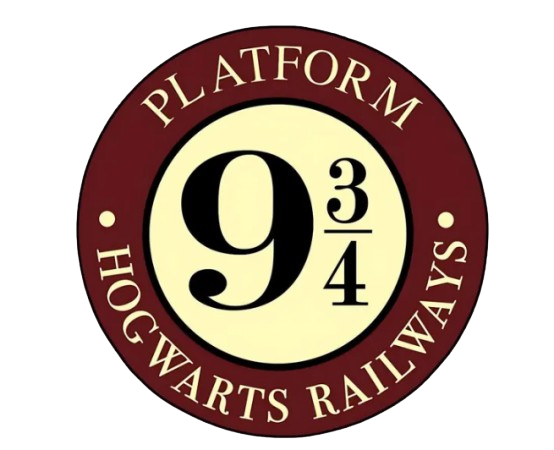
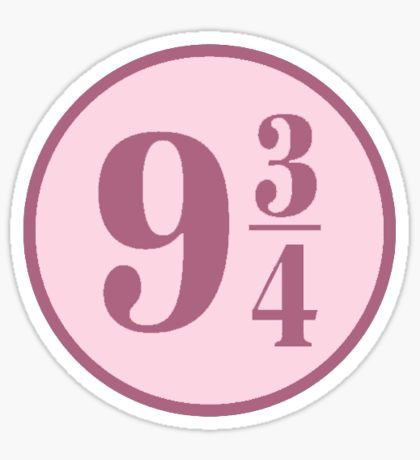
Implementando funcionalidades

diff --git a/src/app/personagem/[id]/page.jsx b/src/app/personagem/[id]/page.jsx
@@ -1,0 +1,196 @@
+"use client"
+import { useState, useEffect } from "react";
+import { useRouter, useParams } from "next/navigation";
+import axios from "axios";
+import Image from "next/image";
+
+export default function PersonagemDetalhes() {
+    const [personagem, setPersonagem] = useState(null);
+    const [loading, setLoading] = useState(true);
+    const router = useRouter();
+    const params = useParams();
+    const { id } = params;
+
+    useEffect(() => {
+        const buscarPersonagem = async () => {
+            setLoading(true);
+            try {
+                const response = await axios.get(`https://api.potterdb.com/v1/characters/${id}`);
+                setPersonagem(response.data.data);
+            } catch (error) {
+                console.error('Erro ao buscar personagem:', error);
+            } finally {
+                setLoading(false);
+            }
+        };
+
+        if (id) {
+            buscarPersonagem();
+        }
+    }, [id]);
+
+    if (loading) {
+        return (
+            <div className="min-h-screen bg-pink-100 flex items-center justify-center">
+                <div className="text-center">
+                    <h1 className="text-2xl font-bold text-gray-800 mb-4">Carregando...</h1>
+                    <div className="animate-spin rounded-full h-12 w-12 border-b-2 border-blue-500 mx-auto"></div>
+                </div>
+            </div>
+        );
+    }
+
+    if (!personagem) {
+        return (
+            <div className="min-h-screen bg-pink-100 flex items-center justify-center">
+                <div className="text-center">
+                    <h1 className="text-2xl font-bold text-gray-800 mb-4">Personagem não encontrado</h1>
+                    <button 
+                        onClick={() => router.push('/informacao')}
+                        className="bg-pink-500 hover:bg-pink-600 text-white font-bold py-2 px-4 rounded"
+                    >
+                        Voltar
+                    </button>
+                </div>
+            </div>
+        );
+    }
+
+    return (
+        <div className="min-h-screen bg-pink-100 p-8">
+            <div className="max-w-4xl mx-auto">
+                <div className="bg-white rounded-lg shadow-lg p-8">
+                    <div className="flex justify-between items-start mb-6">
+                        <h1 className="text-3xl font-bold text-gray-800">{personagem.attributes.name}</h1>
+                        <button 
+                            onClick={() => router.push('/informacao')}
+                            className="bg-pink-500 hover:bg-pink-600 text-white font-bold py-2 px-4 rounded"
+                        >
+                            ← Voltar
+                        </button>
+                    </div>
+
+                    <div className="grid grid-cols-1 md:grid-cols-2 gap-8">
+                        {/* Imagem do personagem */}
+                        <div className="flex justify-center">
+                            {personagem.attributes.image ? (
+                                <img 
+                                    src={personagem.attributes.image} 
+                                    alt={personagem.attributes.name}
+                                    className="max-w-full h-auto rounded-lg shadow-md"
+                                />
+                            ) : (
+                                <div className="w-64 h-64 bg-gray-200 rounded-lg flex items-center justify-center">
+                                    <span className="text-gray-500">Sem imagem</span>
+                                </div>
+                            )}
+                        </div>
+
+                        {/* Detalhes do personagem */}
+                        <div className="space-y-4">
+                            <div className="grid grid-cols-1 gap-3">
+                                <div className="bg-gray-50 p-3 rounded">
+                                    <strong className="text-gray-800">Gênero:</strong> 
+                                    <span className="ml-2 text-gray-700">{personagem.attributes.gender || 'N/A'}</span>
+                                </div>
+                                
+                                <div className="bg-gray-50 p-3 rounded">
+                                    <strong className="text-gray-800">Casa:</strong> 
+                                    <span className="ml-2 text-gray-700">{personagem.attributes.house || 'N/A'}</span>
+                                </div>
+                                
+                                <div className="bg-gray-50 p-3 rounded">
+                                    <strong className="text-gray-800">Espécie:</strong> 
+                                    <span className="ml-2 text-gray-700">{personagem.attributes.species || 'N/A'}</span>
+                                </div>
+                                
+                                <div className="bg-gray-50 p-3 rounded">
+                                    <strong className="text-gray-800">Status Sanguíneo:</strong> 
+                                    <span className="ml-2 text-gray-700">{personagem.attributes.blood_status || 'N/A'}</span>
+                                </div>
+                                
+                                <div className="bg-gray-50 p-3 rounded">
+                                    <strong className="text-gray-800">Nascimento:</strong> 
+                                    <span className="ml-2 text-gray-700">{personagem.attributes.born || 'N/A'}</span>
+                                </div>
+                                
+                                <div className="bg-gray-50 p-3 rounded">
+                                    <strong className="text-gray-800">Morte:</strong> 
+                                    <span className="ml-2 text-gray-700">{personagem.attributes.died || 'N/A'}</span>
+                                </div>
+                                
+                                <div className="bg-gray-50 p-3 rounded">
+                                    <strong className="text-gray-800">Patronus:</strong> 
+                                    <span className="ml-2 text-gray-700">{personagem.attributes.patronus || 'N/A'}</span>
+                                </div>
+                                
+                                <div className="bg-gray-50 p-3 rounded">
+                                    <strong className="text-gray-800">Cor dos Olhos:</strong> 
+                                    <span className="ml-2 text-gray-700">{personagem.attributes.eye_color || 'N/A'}</span>
+                                </div>
+                                
+                                <div className="bg-gray-50 p-3 rounded">
+                                    <strong className="text-gray-800">Cor do Cabelo:</strong> 
+                                    <span className="ml-2 text-gray-700">{personagem.attributes.hair_color || 'N/A'}</span>
+                                </div>
+                                
+                                <div className="bg-gray-50 p-3 rounded">
+                                    <strong className="text-gray-800">Nacionalidade:</strong> 
+                                    <span className="ml-2 text-gray-700">{personagem.attributes.nationality || 'N/A'}</span>
+                                </div>
+                            </div>
+
+                            {/* Informações adicionais */}
+                            {personagem.attributes.alias_names && personagem.attributes.alias_names.length > 0 && (
+                                <div className="bg-blue-50 p-4 rounded-lg">
+                                    <strong className="text-gray-800">Apelidos:</strong>
+                                    <ul className="list-disc list-inside mt-2 text-gray-700">
+                                        {personagem.attributes.alias_names.map((alias, index) => (
+                                            <li key={index}>{alias}</li>
+                                        ))}
+                                    </ul>
+                                </div>
+                            )}
+
+                            {personagem.attributes.family_members && personagem.attributes.family_members.length > 0 && (
+                                <div className="bg-green-50 p-4 rounded-lg">
+                                    <strong className="text-gray-800">Família:</strong>
+                                    <ul className="list-disc list-inside mt-2 text-gray-700">
+                                        {personagem.attributes.family_members.map((member, index) => (
+                                            <li key={index}>{member}</li>
+                                        ))}
+                                    </ul>
+                                </div>
+                            )}
+
+                            {personagem.attributes.jobs && personagem.attributes.jobs.length > 0 && (
+                                <div className="bg-yellow-50 p-4 rounded-lg">
+                                    <strong className="text-gray-800">Profissões:</strong>
+                                    <ul className="list-disc list-inside mt-2 text-gray-700">
+                                        {personagem.attributes.jobs.map((job, index) => (
+                                            <li key={index}>{job}</li>
+                                        ))}
+                                    </ul>
+                                </div>
+                            )}
+                        </div>
+                    </div>
+
+                    {/* Link para Wiki */}
+                    {personagem.attributes.wiki && (
+                        <div className="mt-8 text-center">
+                            <a 
+                                href={personagem.attributes.wiki}
+                                target="_blank"
+                                rel="noopener noreferrer"
+                                className="bg-purple-500 hover:bg-purple-600 text-white font-bold py-3 px-6 rounded-lg transition duration-300 inline-block"
+                            >
+                                📖 Ver na Wiki do Harry Potter
+                            </a>
+                        </div>
+                    )}
+                </div>
+            </div>
+        </div>
+    );
+}

diff --git a/src/app/Informacao/page.jsx b/src/app/Informacao/page.jsx
@@ -1,10 +1,13 @@
 "use client"
 import { useState } from "react";
 import axios from "axios";
+import Image from "next/image";
+import { useRouter } from "next/navigation";
 
 export default function informacao() {
     const [personagens, setPersonagens] = useState([]);
     const [loading, setLoading] = useState(false);
+    const router = useRouter();
 
     const buscarPersonagem = async () => {
         setLoading(true);
@@ -22,10 +25,19 @@ export default function informacao() {
     return (
         <div className="min-h-screen bg-pink-100 p-8">
             <div className="max-w-4xl mx-auto">
-                <h1 className="text-3xl font-bold text-center mb-8">Personagens de Harry Potter</h1>
+                <div className="flex items-center justify-center gap-4 mb-8">
+                    <Image 
+                        src="/image/plataformaa.png" 
+                        alt="Plataforma 9¾" 
+                        width={80}
+                        height={80}
+                        className="rounded"
+                    />
+                    <h1 className="text-3xl font-bold text-gray-800">Personagens de Harry Potter</h1>
+                </div>
                 <div className="text-center mb-8"> 
                     <div className="mb-6 flex gap-4 justify-center">
-                        <button onClick={buscarPersonagem} disabled={loading} className="bg-red-300 hover:bg-red-400 text-white font-bold py-4 px-6 rounded">
+                        <button onClick={buscarPersonagem} disabled={loading} className="bg-pink-300 hover:bg-pink-400 text-white font-bold py-4 px-6 rounded">
                             {loading ? 'Carregando...' : '🔍Buscar Personagem'}
                         </button>
                         <button onClick={() => window.location.href = '/'} className="bg-pink-500 hover:bg-pink-700 text-white font-bold py-4 px-6 rounded">
@@ -37,13 +49,26 @@ export default function informacao() {
                 <div className="grid grid-cols-1 md:grid-cols-2 lg:grid-cols-3 gap-6">
                     {personagens.map((personagem) => (
                         <div key={personagem.id} className="bg-white p-6 rounded-lg shadow-md">
-                            <h2 className="text-xl font-bold mb-2">{personagem.name}</h2>
-                            <p className="text-gray-700 mb-1"><strong>gender:</strong> {personagem.gender}</p>
-                            <p className="text-gray-700 mb-1"><strong>height:</strong> {personagem.height}</p>
-                            <p className="text-gray-700 mb-1"><strong>house:</strong> {personagem.house}</p>
-                            <p className="text-gray-700 mb-1"><strong>image:</strong> {personagem.image}</p>
-                            <p className="text-gray-700 mb-1"><strong>patronus:</strong> {personagem.patronus}</p>
-                            <p className="text-gray-700 mb-1"><strong>species:</strong> {personagem.species}</p>
+                            <h2 className="text-xl font-bold mb-2">{personagem.attributes.name}</h2>
+                            <p className="text-gray-700 mb-1"><strong>Gender:</strong> {personagem.attributes.gender || 'N/A'}</p>
+                            <p className="text-gray-700 mb-1"><strong>Height:</strong> {personagem.attributes.height || 'N/A'}</p>
+                            <p className="text-gray-700 mb-1"><strong>House:</strong> {personagem.attributes.house || 'N/A'}</p>
+                            {personagem.attributes.image && (
+                                <div className="mb-2">
+                                    <img src={personagem.attributes.image} alt={personagem.attributes.name} className="w-full h-32 object-cover rounded" />
+                                </div>
+                            )}
+                            <p className="text-gray-700 mb-1"><strong>Patronus:</strong> {personagem.attributes.patronus || 'N/A'}</p>
+                            <p className="text-gray-700 mb-1"><strong>Species:</strong> {personagem.attributes.species || 'N/A'}</p>
+                            
+                            <div className="mt-4 text-center">
+                                <button 
+                                    onClick={() => router.push(`/personagem/${personagem.id}`)}
+                                    className="bg-pink-500 hover:bg-pink-600 text-white font-bold py-2 px-4 rounded-lg transition duration-300"
+                                >
+                                    📋 Detalhes
+                                </button>
+                            </div>
                         </div>
                     ))}
                 </div>

diff --git a/src/app/page.jsx b/src/app/page.jsx
@@ -3,6 +3,12 @@ import { useState } from "react";
 import axios from "axios";
 import { useRouter } from "next/navigation";
 import Image from "next/image";
+import { Poppins } from "next/font/google";
+
+const poppins = Poppins({
+  subsets: ["latin"],
+  weight: ["400", "700"],
+});
 
 export default function Page() {
     const router = useRouter();
@@ -12,7 +18,7 @@ export default function Page() {
     };
 
     return (
-        <div className="min-h-screen bg-pink-100">   
+        <div className={`min-h-screen bg-pink-100 ${poppins.className}`}>   
             <div className="flex items-center justify-center p-8 pt-16">
                 <div className="bg-white rounded-lg shadow-lg p-8 max-w-4xl w-full text-center">
                     <div className="space-y-4">
@@ -52,7 +58,7 @@ export default function Page() {
                             onClick={informacao}
 
                         >
-                            Veja a Api que escolhi
+                            Veja a Api que Escolhi!
                         </button>
                     </div>
                 </div>
